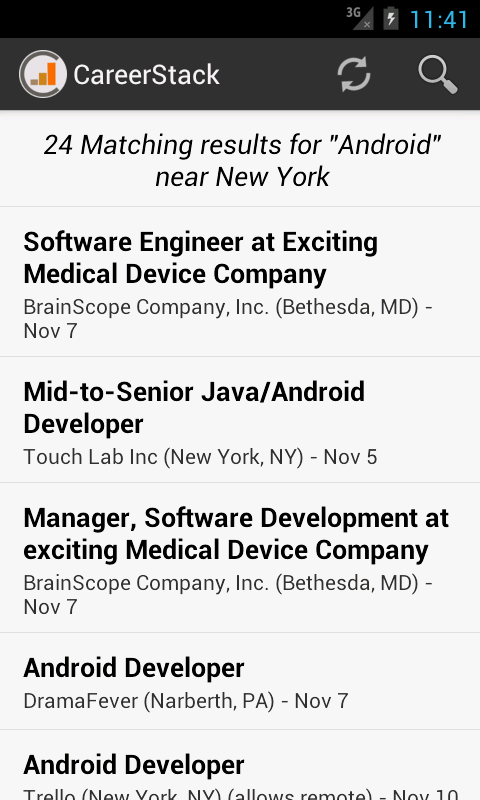
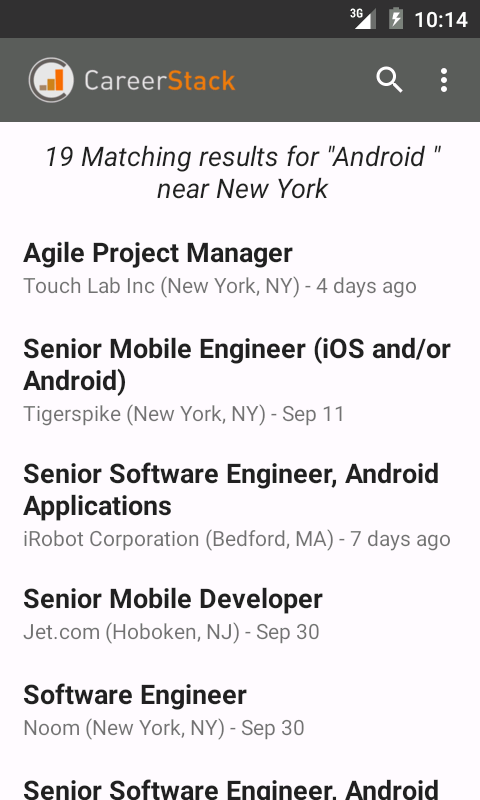
Updated README, screenshots, & version code/name for next release
Version 1.1.0:
-Restyled to add basics for material design 

[Mod][Doc]: Updated screenshots & updated README to match changes.

[Mod]: Updated proguard to keep animations.

diff --git a/README.md b/README.md
@@ -19,10 +19,14 @@ This project is primarily hosted on [Bitbucket](https://bitbucket.org/iamovrhere
 
 This project requires:
 
-* Compatibility v7 library
-* 3rd-party [v4-preferencefragment](https://github.com/kolavar/android-support-v4-preferencefragment "android-support-v4-preferencefragment by kolavar")
+* AppCompat v7 library (build 22)
+* [v4-preferencefragment (2014-02-23](https://github.com/kolavar/android-support-v4-preferencefragment "android-support-v4-preferencefragment by kolavar")
+* [MaterialDesignLibrary 1.3](https://github.com/navasmdc/MaterialDesignLibrary/tree/1.3 "Material Design Android Library") [With my patch](https://github.com/navasmdc/MaterialDesignLibrary/pull/340). (Requires [NineOldAndroids](https://github.com/JakeWharton/NineOldAndroids "NineOldAndroids
+"))
+* [FloatingActionButton 1.10.0](https://github.com/str4d/android-floating-action-button/tree/support-1.10.0 "FloatingActionButton") with some tweaks. (Requires [NineOldAndroids](https://github.com/JakeWharton/NineOldAndroids "NineOldAndroids
+"))
 
-And uses resources from [Android Holo Colors Generator](http://android-holo-colors.com/ "Android Holo Colors Generator").
+For a nice comprehensive list of Material Libraries you might find useful see: [Material Library List](https://github.com/wasabeef/awesome-android-ui/blob/master/pages/Material.md "Material Android Libraries")
 
 ###Features
 
